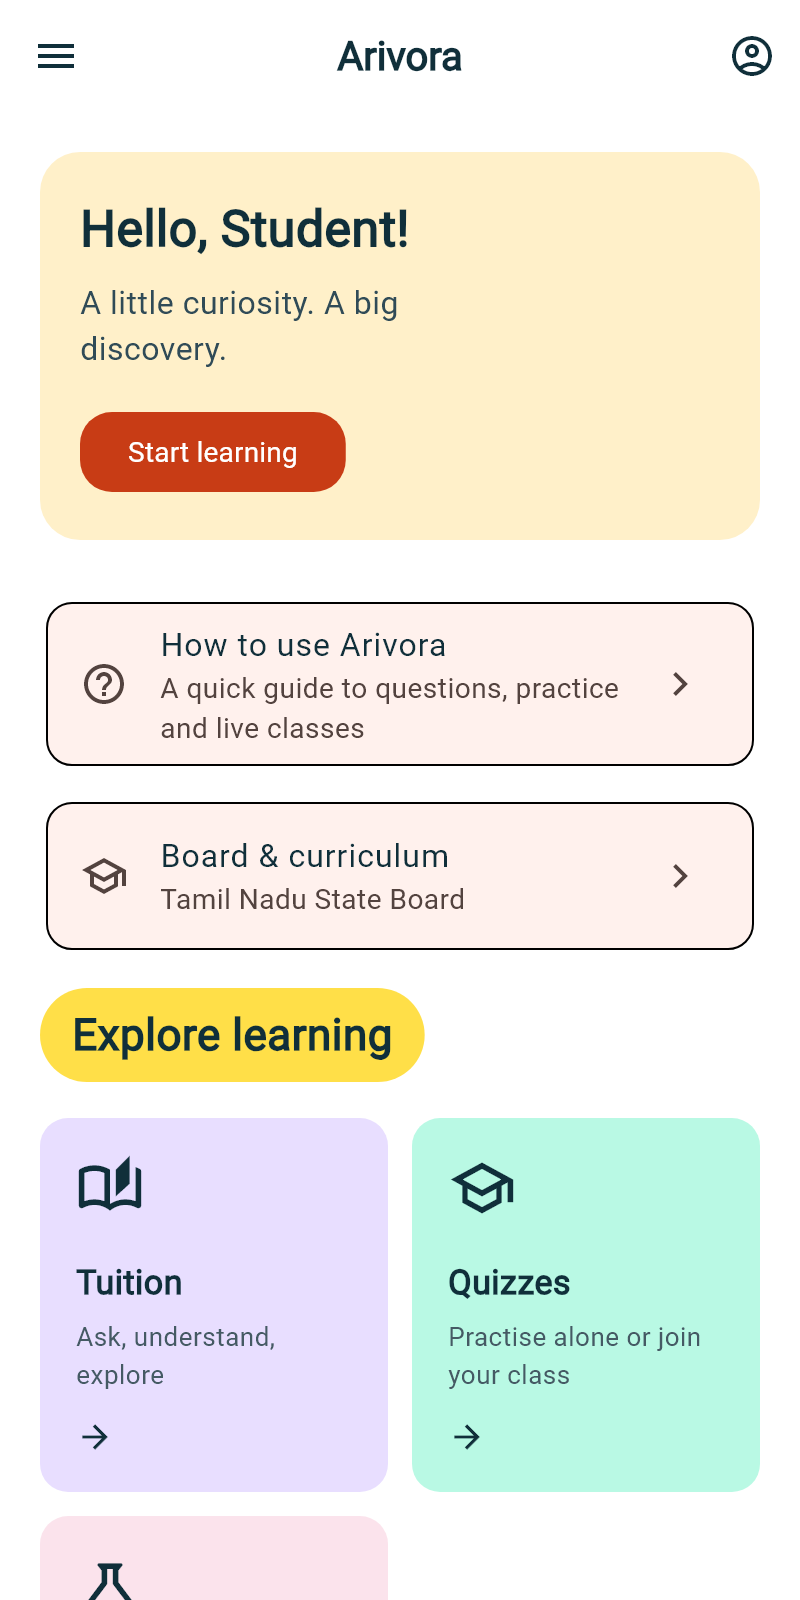
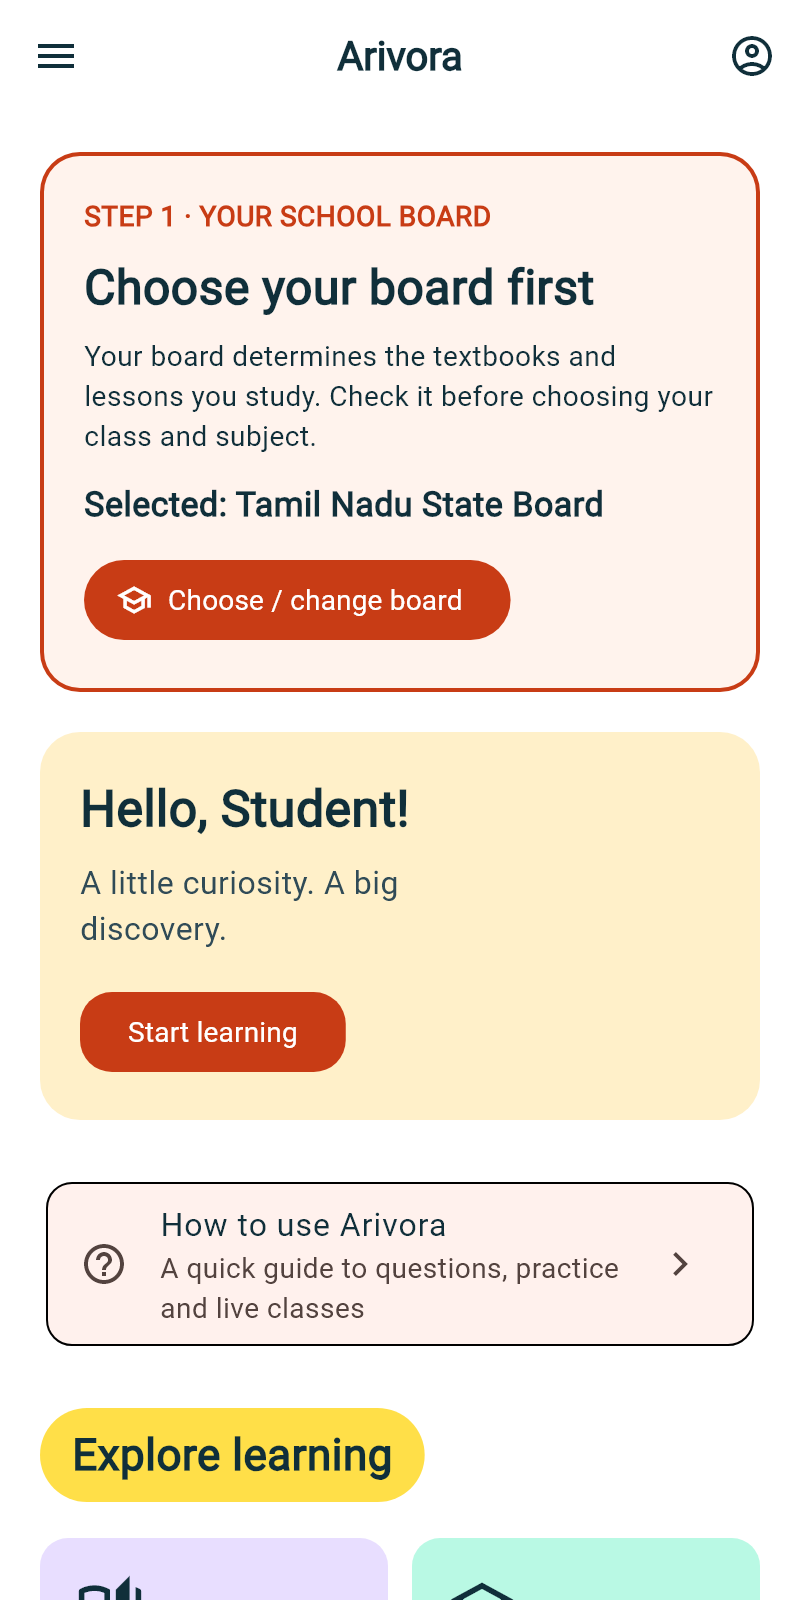
Make school board selection the first prominent learning step

diff --git a/lib/screens/home_selection_screen.dart b/lib/screens/home_selection_screen.dart
@@ -105,6 +105,70 @@ class _HomeSelectionScreenState extends State<HomeSelectionScreen> {
                 crossAxisAlignment: CrossAxisAlignment.start,
                 children: [
                   Container(
+                    width: double.infinity,
+                    padding: const EdgeInsets.all(20),
+                    decoration: BoxDecoration(
+                      color: Tailwind.indigo50,
+                      borderRadius: Tailwind.roundedXl,
+                      border: Border.all(color: Tailwind.indigo600, width: 2),
+                    ),
+                    child: Column(
+                      crossAxisAlignment: CrossAxisAlignment.start,
+                      children: [
+                        const Text(
+                          'STEP 1 · YOUR SCHOOL BOARD',
+                          style: TextStyle(
+                            fontWeight: FontWeight.w800,
+                            color: Tailwind.indigo600,
+                          ),
+                        ),
+                        const SizedBox(height: 8),
+                        const Text(
+                          'Choose your board first',
+                          style: TextStyle(
+                            fontSize: 24,
+                            fontWeight: FontWeight.w800,
+                            color: Tailwind.slate800,
+                          ),
+                        ),
+                        const SizedBox(height: 8),
+                        const Text(
+                          'Your board determines the textbooks and lessons you study. Check it before choosing your class and subject.',
+                        ),
+                        const SizedBox(height: 12),
+                        Text(
+                          'Selected: ${boardNames[board]}',
+                          style: const TextStyle(
+                            fontSize: 17,
+                            fontWeight: FontWeight.w700,
+                          ),
+                        ),
+                        const SizedBox(height: 12),
+                        FilledButton.icon(
+                          icon: const Icon(Icons.school_outlined),
+                          label: const Text('Choose / change board'),
+                          onPressed: () => open(
+                            BoardSelectionScreen(
+                              changing: true,
+                              initialBoard: board,
+                              onSave: (selected) async {
+                                await supabase.auth.updateUser(
+                                  UserAttributes(
+                                    data: {'education_board': selected},
+                                  ),
+                                );
+                                if (!context.mounted) return;
+                                Navigator.of(context).pop();
+                                setState(() {});
+                              },
+                            ),
+                          ),
+                        ),
+                      ],
+                    ),
+                  ),
+                  const SizedBox(height: 20),
+                  Container(
                     padding: const EdgeInsets.all(20),
                     decoration: BoxDecoration(
                       color: Tailwind.pastels[1],
@@ -158,30 +222,6 @@ class _HomeSelectionScreenState extends State<HomeSelectionScreen> {
                     ),
                   ),
                   const SizedBox(height: 12),
-                  Card(
-                    child: ListTile(
-                      leading: const Icon(Icons.school_outlined),
-                      title: const Text('Board & curriculum'),
-                      subtitle: Text(boardNames[board] ?? 'Select your board'),
-                      trailing: const Icon(Icons.chevron_right),
-                      onTap: () => open(
-                        BoardSelectionScreen(
-                          changing: true,
-                          initialBoard: board,
-                          onSave: (selected) async {
-                            await supabase.auth.updateUser(
-                              UserAttributes(
-                                data: {'education_board': selected},
-                              ),
-                            );
-                            if (!context.mounted) return;
-                            Navigator.of(context).pop();
-                            setState(() {});
-                          },
-                        ),
-                      ),
-                    ),
-                  ),
                   const SizedBox(height: 16),
                   Container(
                     padding: const EdgeInsets.symmetric(

diff --git a/test/home_board_priority_test.dart b/test/home_board_priority_test.dart
@@ -1,0 +1,82 @@
+import 'dart:convert';
+import 'package:flutter/material.dart';
+import 'package:flutter_test/flutter_test.dart';
+import 'package:shared_preferences/shared_preferences.dart';
+import 'package:supabase_flutter/supabase_flutter.dart';
+import 'package:tutor_preethi/screens/home_selection_screen.dart';
+import 'package:tutor_preethi/screens/board_selection_screen.dart';
+import 'package:tutor_preethi/screens/student_tutorial.dart';
+
+void main() {
+  TestWidgetsFlutterBinding.ensureInitialized();
+  setUpAll(() async {
+    SharedPreferences.setMockInitialValues({
+      StudentTutorial.storageKey('demo'): true,
+    });
+    await Supabase.initialize(
+      url: 'https://home-test.invalid',
+      anonKey: 'sample',
+      authOptions: const FlutterAuthClientOptions(
+        detectSessionInUri: false,
+        autoRefreshToken: false,
+      ),
+    );
+    await Supabase.instance.client.auth.recoverSession(
+      jsonEncode({
+        'access_token': 'sample',
+        'refresh_token': 'sample',
+        'token_type': 'bearer',
+        'expires_in': 3600,
+        'user': {
+          'id': 'demo',
+          'aud': 'authenticated',
+          'created_at': '2026-01-01T00:00:00Z',
+          'app_metadata': <String, dynamic>{},
+          'user_metadata': {'full_name': 'Student', 'education_board': 'cbse'},
+        },
+      }),
+    );
+  });
+  tearDownAll(() => Supabase.instance.dispose());
+  for (final scale in [1.0, 1.8]) {
+    testWidgets(
+      'board is first and change action opens saved board at text scale $scale',
+      (tester) async {
+        tester.view.physicalSize = const Size(360, 640);
+        tester.view.devicePixelRatio = 1;
+        addTearDown(tester.view.resetPhysicalSize);
+        addTearDown(tester.view.resetDevicePixelRatio);
+        await tester.pumpWidget(
+          MaterialApp(
+            builder: (context, child) => MediaQuery(
+              data: MediaQuery.of(
+                context,
+              ).copyWith(textScaler: TextScaler.linear(scale)),
+              child: child!,
+            ),
+            home: const HomeSelectionScreen(),
+          ),
+        );
+        await tester.pumpAndSettle();
+        final board = find.widgetWithText(
+          FilledButton,
+          'Choose / change board',
+        );
+        final learning = find.text('Start learning');
+        expect(
+          tester.getTopLeft(board).dy,
+          lessThan(tester.getTopLeft(learning).dy),
+        );
+        if (scale == 1) expect(tester.getBottomRight(board).dy, lessThan(640));
+        expect(find.text('Selected: CBSE'), findsOneWidget);
+        await tester.ensureVisible(board);
+        await tester.tap(board);
+        await tester.pumpAndSettle();
+        expect(find.byType(BoardSelectionScreen), findsOneWidget);
+        expect(find.text('CBSE'), findsOneWidget);
+        expect(find.text('Save board'), findsOneWidget);
+        expect(tester.takeException(), isNull);
+      },
+    );
+  }
+}

diff --git a/lib/screens/student_tutorial.dart b/lib/screens/student_tutorial.dart
@@ -8,7 +8,7 @@ class StudentTutorial extends StatefulWidget {
   const StudentTutorial({super.key, this.onClose});
 
   // Show the improved guide once, including to students who saw the old tour.
-  static String storageKey(String userId) => 'student_tutorial_v4_$userId';
+  static String storageKey(String userId) => 'student_tutorial_v5_$userId';
 
   static Future<void> show(BuildContext context) => showDialog<void>(
     context: context,
@@ -189,16 +189,16 @@ class _StudentTutorialState extends State<StudentTutorial> {
   int step = 0;
   static const steps = [
     _TourStep(
-      title: 'Your first steps in Arivora',
+      title: 'First, choose your school board',
       summary:
-          'Learn where to go and what to tap. You can skip this guide and open it again whenever you need.',
-      route: 'Home',
+          'Your school board comes first. It determines which textbooks and lessons Arivora uses for your learning.',
+      route: 'Home → Choose / change board',
       actions: [
-        'Tuition helps you understand a lesson or ask a question.',
-        'Quizzes lets you practise alone or join your teacher’s class.',
+        'Tap Choose / change board at the top of Home.',
+        'Select Tamil Nadu State Board or CBSE to match your school, then save your choice.',
       ],
       example:
-          'Ask a question → understand the explanation → try a practice question.',
+          'School board → Class → Subject → Start learning',
       tip:
           'Look for “How to use Arivora” on Home or in the menu to replay this guide.',
       icon: Icons.explore_outlined,
@@ -209,7 +209,7 @@ class _StudentTutorialState extends State<StudentTutorial> {
           'Start with your board, class and subject so your learning matches your course.',
       route: 'Home → Tuition → Class → Subject',
       actions: [
-        'Check Board & curriculum on Home. Tap it if you need to change boards.',
+        'Confirm your selected board in the first card on Home.',
         'Tap Tuition or Start learning. Select your class first, then your subject.',
       ],
       example: 'Tamil Nadu State Board · Class 6 · Science',

diff --git a/lib/screens/board_selection_screen.dart b/lib/screens/board_selection_screen.dart
@@ -62,12 +62,12 @@ class _BoardSelectionScreenState extends State<BoardSelectionScreen> {
                   const Icon(Icons.school_outlined, size: 64),
                   const SizedBox(height: 24),
                   Text(
-                    'Select your board',
+                    'First, choose your school board',
                     style: Theme.of(context).textTheme.headlineSmall,
                   ),
                   const SizedBox(height: 12),
                   const Text(
-                    'We will remember your board for next time. You can change it from the menu anytime.',
+                    'Your board determines your textbooks and lessons. Choose the board followed by your school, then select your class and subject. You can change it at the top of Home anytime.',
                   ),
                   const SizedBox(height: 24),
                   DropdownButtonFormField<String>(
@@ -107,7 +107,13 @@ class _BoardSelectionScreenState extends State<BoardSelectionScreen> {
                   const SizedBox(height: 24),
                   FilledButton(
                     onPressed: _board == null || _saving ? null : _save,
-                    child: Text(_saving ? 'Saving...' : 'Continue to Home'),
+                    child: Text(
+                      _saving
+                          ? 'Saving...'
+                          : widget.changing
+                          ? 'Save board'
+                          : 'Continue to Home',
+                    ),
                   ),
                 ],
               ),

diff --git a/test/tutorial_capture_test.dart b/test/tutorial_capture_test.dart
@@ -137,10 +137,20 @@ void main() {
         }),
       );
       await mount(const HomeSelectionScreen());
+      final learning = tester.getRect(
+        find.widgetWithText(ElevatedButton, 'Start learning'),
+      );
+      expect(learning.bottom, lessThanOrEqualTo(800));
+      final learningRect = [
+        learning.left / 400,
+        learning.top / 800,
+        learning.width / 400,
+        learning.height / 800,
+      ];
       await capture(
         'home',
-        find.widgetWithText(ElevatedButton, 'Start learning'),
-        'Tap Start learning',
+        find.widgetWithText(FilledButton, 'Choose / change board'),
+        'First, tap Choose / change board',
       );
       await mount(const SubjectSelectionScreen(board: 'tn'));
       await capture(
@@ -210,7 +220,12 @@ void main() {
         find.text('My profile'),
         'Open My profile for your account and credit history',
       );
-      captures.add(captures.first);
+      // Reuse the Home capture but focus the separate learning action at the end.
+      final homeCapture = Map<String, dynamic>.from(captures.first);
+      // Home is captured before signing out, with both controls visible.
+      homeCapture['label'] = 'After checking your board, tap Start learning';
+      homeCapture['rect'] = learningRect;
+      captures.add(homeCapture);
       await tester.runAsync(() async {
         final json = const JsonEncoder.withIndent('  ').convert(captures);
         await File('assets/tutorial/captures.json').writeAsString(json);

diff --git a/test/student_tutorial_test.dart b/test/student_tutorial_test.dart
@@ -33,14 +33,14 @@ void main() {
       ),
     );
     await tester.pumpAndSettle();
-    expect(find.text('Tap Start learning'), findsOneWidget);
+    expect(find.text('First, tap Choose / change board'), findsOneWidget);
     await tester.tap(find.byType(InkWell).first);
     await tester.pumpAndSettle();
     expect(find.byType(InteractiveViewer), findsOneWidget);
     await tester.tap(find.byTooltip('Close screen preview'));
     await tester.pumpAndSettle();
     expect(find.byType(InteractiveViewer), findsNothing);
-    expect(find.text('Tap Start learning'), findsOneWidget);
+    expect(find.text('First, tap Choose / change board'), findsOneWidget);
     expect(tester.takeException(), isNull);
   });
   test('completion is remembered separately per account', () async {

diff --git a/lib/screens/tutorial_captures.dart b/lib/screens/tutorial_captures.dart
@@ -2,8 +2,8 @@
 const tutorialCaptures = <Map<String, dynamic>>[
   {
     "asset": "assets/tutorial/home.png",
-    "label": "Tap Start learning",
-    "rect": [0.1, 0.2525, 0.33220117568969726, 0.06],
+    "label": "First, tap Choose / change board",
+    "rect": [0.105, 0.345, 0.5332553863525391, 0.06],
   },
   {
     "asset": "assets/tutorial/class.png",
@@ -32,7 +32,7 @@ const tutorialCaptures = <Map<String, dynamic>>[
   },
   {
     "asset": "assets/tutorial/home.png",
-    "label": "Tap Start learning",
-    "rect": [0.1, 0.2525, 0.33220117568969726, 0.06],
+    "label": "After checking your board, tap Start learning",
+    "rect": [0.1, 0.615, 0.33220117568969726, 0.06],
   },
 ];

diff --git a/test/board_selection_test.dart b/test/board_selection_test.dart
@@ -67,7 +67,7 @@ void main() {
       find.textContaining('English-medium NCERT textbooks'),
       findsOneWidget,
     );
-    await tester.tap(find.text('Continue to Home'));
+    await tester.tap(find.text('Save board'));
     await tester.pumpAndSettle();
     expect(saved, 'cbse');
   });
